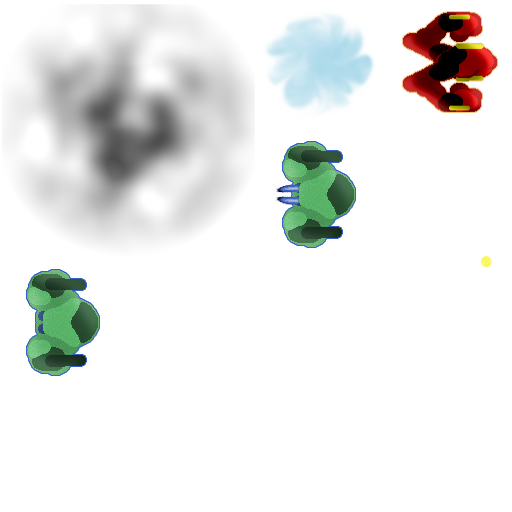
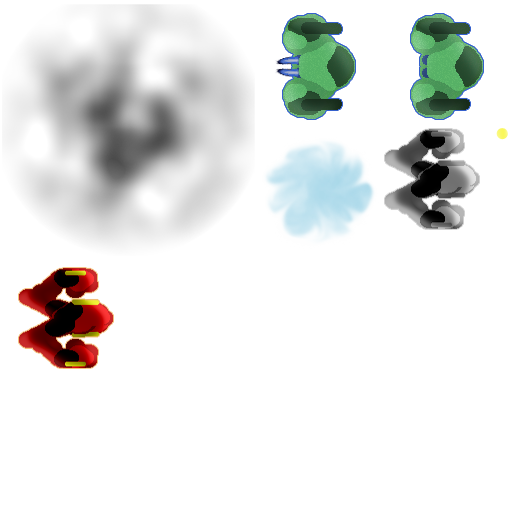
reintroduced sprite atlas

diff --git a/game.c b/game.c
@@ -37,11 +37,12 @@ struct DLL_ enemy_bullets;
 struct DLL_ pretty_particles;
 
 ImageResource stars;
-ImageResource image_enemy;
-ImageResource image_ally;
-ImageResource image_player_bullet;
-ImageResource image_enemy_bullet;
-ImageResource image_smoke;
+SpriteAtlas atlas;
+SpriteAtlasEntry image_enemy;
+SpriteAtlasEntry image_ally;
+SpriteAtlasEntry image_player_bullet;
+SpriteAtlasEntry image_enemy_bullet;
+SpriteAtlasEntry image_smoke;
 
 Clock main_clock;
 
@@ -298,7 +299,7 @@ Enemy spawn_enemy() {
   return enemy;
 }
 
-Particle bullet_make(Vector pos, Vector vel, ImageResource image) {
+Particle bullet_make(Vector pos, Vector vel, SpriteAtlasEntry image) {
   Particle bullet = particle_make();
   bullet->image = image;
   bullet->pos = *pos;
@@ -524,11 +525,12 @@ void game_init() {
   main_clock = clock_make();
 
   stars = image_load("spacer/night-sky-stars.jpg");
-  image_enemy = image_load("spacer/ship-right.png");
-  image_ally = image_load("spacer/ship-right-good.png");
-  image_player_bullet = image_load("spacer/plasma.png");
-  image_enemy_bullet = image_load("spacer/enemy-bullet.png");
-  image_smoke = image_load("spacer/smoke.png");
+  atlas = spriteatlas_load("spacer/images_default.dat", "spacer/images_default.png");
+  image_enemy = spriteatlas_find(atlas, "ship-right.png");
+  image_ally = spriteatlas_find(atlas, "ship-right-good.png");
+  image_player_bullet = spriteatlas_find(atlas, "plasma.png");
+  image_enemy_bullet = spriteatlas_find(atlas, "enemy-bullet.png");
+  image_smoke = spriteatlas_find(atlas, "smoke.png");
 
   dll_zero(&enemies);
   dll_zero(&player_bullets);
@@ -536,7 +538,7 @@ void game_init() {
   dll_zero(&pretty_particles);
 
   player = particle_make();
-  player->image = image_load("spacer/hero.png");
+  player->image = spriteatlas_find(atlas, "hero.png");
   player->pos.x = player->image->w;
   player->pos.y = screen_height / 2;
   player->vel.x = 0;

diff --git a/buildatlas.c b/buildatlas.c
@@ -1,0 +1,68 @@
+#include "spriteatlas.h"
+
+#include <libxml/tree.h>
+#include <libxml/parser.h>
+#include <string.h>
+
+char* node_attr(xmlNode* node, char* name) {
+  return (char*)xmlGetProp(node, (const xmlChar*)name);
+}
+
+void node_to_struct(xmlNode* node, ImageResource img, SpriteAtlasEntry entry) {
+  char* entry_name = node_attr(node, "name");
+  float x = atof(node_attr(node, "x"));
+  float y = atof(node_attr(node, "y"));
+  float width = atof(node_attr(node, "width"));
+  float height = atof(node_attr(node, "height"));
+
+  memset(entry, 0, sizeof(struct SpriteAtlasEntry_));
+  strncpy(entry->name, entry_name, MAX_ENTRY_NAME);
+  entry->u0 = x / image_width(img);
+  entry->v0 = y / image_height(img);
+  entry->u1 = (x + width) / image_width(img);
+  entry->v1 = (y + height) / image_height(img);
+  entry->w = width;
+  entry->h = height;
+}
+
+int main(int argc, char ** argv) {
+  if(argc != 4) {
+    fprintf(stderr, "usage: %s [input] [input-img] [output]\n", argv[0]);
+    return 1;
+  }
+
+  testlib_init();
+
+  char * input_xml = argv[1];
+  char * input_img = argv[2];
+  char * output_name = argv[3];
+
+  xmlDoc* doc = xmlParseFile(input_xml);
+  xmlNode* root = xmlDocGetRootElement(doc);
+  xmlNode* subtex = root->children;
+
+  ImageResource img = image_load(input_img);
+  FILE* output = fopen(output_name, "wb");
+
+  int ii = 0;
+  while(subtex) {
+    if(subtex->type == XML_ELEMENT_NODE) {
+      struct SpriteAtlasEntry_ entry;
+      node_to_struct(subtex, img, &entry);
+      fwrite(&entry, sizeof(struct SpriteAtlasEntry_), 1, output);
+      ii++;
+    }
+
+    subtex = subtex->next;
+  }
+
+  fclose(output);
+  xmlFreeDoc(doc);
+
+  fprintf(stderr, "built %s\n", output_name);
+  fprintf(stderr, "%d entries, %ld bytes per entry. %ld bytes total\n",
+          ii, sizeof(struct SpriteAtlasEntry_),
+          sizeof(struct SpriteAtlasEntry_) * ii);
+
+  return 0;
+}

diff --git a/spriteatlas.c b/spriteatlas.c
@@ -1,0 +1,55 @@
+#include "spriteatlas.h"
+#include "testlib.h"
+#include "memory.h"
+
+#include <stdio.h>
+#include <string.h>
+
+SpriteAtlas spriteatlas_load(char* datafilename, char* imgfilename) {
+  FILE* datafile = fopen(datafilename, "r");
+  if(datafile == NULL) fail_exit("failed to open %s", datafilename);
+
+  fseek(datafile, 0L, SEEK_END);
+  int length = ftell(datafile);
+  fseek(datafile, 0L, SEEK_SET);
+
+  SpriteAtlas atlas = malloc(sizeof(struct SpriteAtlas_) + length);
+  atlas->nentries = length / sizeof(struct SpriteAtlasEntry_);
+
+  // slurp in the data
+  fread(atlas->entries, sizeof(struct SpriteAtlasEntry_), atlas->nentries, datafile);
+  fclose(datafile);
+
+  // build the backrefs
+  int ii;
+  for(ii = 0; ii < atlas->nentries; ++ii) {
+    atlas->entries[ii].atlas = atlas;
+  }
+
+  atlas->image = image_load(imgfilename);
+  return atlas;
+}
+
+void spriteatlas_free(SpriteAtlas atlas) {
+  free(atlas);
+}
+
+SpriteAtlasEntry spriteatlas_find(SpriteAtlas atlas, char* name) {
+  int ii;
+  for(ii = 0; ii < atlas->nentries; ++ii) {
+    SpriteAtlasEntry entry = &atlas->entries[ii];
+    if(strncmp(entry->name, name, MAX_ENTRY_NAME - 1) == 0) return entry;
+  }
+  fail_exit("couldn't find %s in atlas", name);
+  return NULL;
+}
+
+void sprite_fillfromentry(Sprite sprite, SpriteAtlasEntry entry) {
+  sprite->resource = entry->atlas->image;
+  sprite->u0 = entry->u0;
+  sprite->u1 = entry->u1;
+  sprite->v0 = entry->v0;
+  sprite->v1 = entry->v1;
+  sprite->w = entry->w;
+  sprite->h = entry->h;
+}

diff --git a/game.h b/game.h
@@ -4,6 +4,7 @@
 #include "testlib.h"
 #include "particle.h"
 #include "agent.h"
+#include "spriteatlas.h"
 
 struct InputState_;
 
@@ -34,10 +35,10 @@ extern struct DLL_ enemy_bullets;
 extern struct DLL_ pretty_particles;
 
 extern ImageResource stars;
-extern ImageResource image_enemy;
-extern ImageResource image_player_bullet;
-extern ImageResource image_enemy_bullet;
-extern ImageResource image_smoke;
+extern SpriteAtlasEntry image_enemy;
+extern SpriteAtlasEntry image_player_bullet;
+extern SpriteAtlasEntry image_enemy_bullet;
+extern SpriteAtlasEntry image_smoke;
 
 extern Clock main_clock;
 
@@ -49,7 +50,7 @@ Particle enemyagent_particle(EnemyAgent enemyagent);
 Enemy spawn_enemy();
 PrettyParticle spawn_smoke(Vector pos, Vector vel);
 void enemy_free(Enemy enemy);
-Particle spawn_bullet(Vector pos, Vector vel, ImageResource image);
+Particle spawn_bullet(Vector pos, Vector vel, SpriteAtlasEntry image);
 void spawn_enemy_fire(Particle enemy);
 
 typedef struct CollisionRecord_ {

diff --git a/spriteatlas.h b/spriteatlas.h
@@ -1,0 +1,30 @@
+#ifndef SPRITEATLAS_H
+#define SPRITEATLAS_H
+
+#include "testlib.h"
+#include "listlib.h"
+
+#define MAX_ENTRY_NAME 12
+
+struct SpriteAtlas_;
+
+typedef struct SpriteAtlasEntry_ {
+  struct SpriteAtlas_* atlas;
+  int w, h;
+  float u0, v0, u1, v1;
+  char name[MAX_ENTRY_NAME];
+} *SpriteAtlasEntry;
+
+typedef struct SpriteAtlas_ {
+  ImageResource image;
+  int nentries;
+  struct SpriteAtlasEntry_ entries[0];
+} *SpriteAtlas;
+
+SpriteAtlas spriteatlas_load(char* datafile, char* imgfile);
+void spriteatlas_free(SpriteAtlas atlas);
+SpriteAtlasEntry spriteatlas_find(SpriteAtlas atlas, char* name);
+
+void sprite_fillfromentry(Sprite sprite, SpriteAtlasEntry entry);
+
+#endif

diff --git a/particle.c b/particle.c
@@ -12,7 +12,8 @@ float particle_height(Particle particle) {
 
 Sprite particle_sprite(Particle particle) {
   Sprite sprite = frame_make_sprite();
-  sprite->resource = particle->image;
+  sprite_fillfromentry(sprite, particle->image);
+
   sprite->w = particle_width(particle) * particle->scale;
   sprite->h = particle_height(particle) * particle->scale;
   sprite->displayX = particle->pos.x;

diff --git a/particle.h b/particle.h
@@ -5,12 +5,13 @@
 #include "vector.h"
 #include "testlib.h"
 #include "rect.h"
+#include "spriteatlas.h"
 
 typedef struct Particle_ {
   struct DLLNode_ node;
   struct Vector_ pos;
   struct Vector_ vel;
-  ImageResource image;
+  SpriteAtlasEntry image;
   float scale;
   float dsdt;
   float angle;
